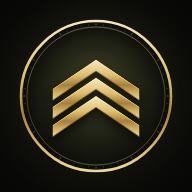
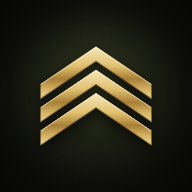
pt16: ícono de galones solos (opción 1), sin marco ni texto

Changed region(s): [[0.0938, 0.0938, 0.9062, 0.9062]]

diff --git a/sw.js b/sw.js
@@ -1,5 +1,5 @@
 /* Life Maxxing: red primero, caché como respaldo (abre sin conexión y siempre toma la última versión cuando hay red) */
-var C="lm-842c4bdb2f";
+var C="lm-f8c515f221";
 self.addEventListener("install",function(e){e.waitUntil(caches.open(C).then(function(c){return c.addAll(["./","index.html","manifest.webmanifest","icon-180.png","icon-192.png","icon-512.png"]);}).then(function(){return self.skipWaiting();}));});
 self.addEventListener("activate",function(e){e.waitUntil(caches.keys().then(function(k){return Promise.all(k.filter(function(n){return n!==C;}).map(function(n){return caches.delete(n);}));}).then(function(){return self.clients.claim();}));});
 self.addEventListener("fetch",function(e){var r=e.request;if(r.method!=="GET"||new URL(r.url).origin!==location.origin)return;

diff --git a/index.html b/index.html
@@ -2638,7 +2638,7 @@ function makeIcon(){ // versión de un solo archivo: el icono se dibuja aquí. E
 }
 /* Icono: insignia de tres galones dorados, sin texto, a sangre (iOS redondea las esquinas).
    v: 1 sola · 2 medallón · 3 marco interior redondeado · 4 escudo. Se usa ICON_V. */
-var ICON_V=2;
+var ICON_V=1;
 function drawIcon(sz,v){
   v=v||ICON_V;var c=document.createElement("canvas");c.width=c.height=sz;var x=c.getContext("2d"),k=sz/512;x.scale(k,k);
   // fondo: negro oliva con luz central, viñeta y textura fina
